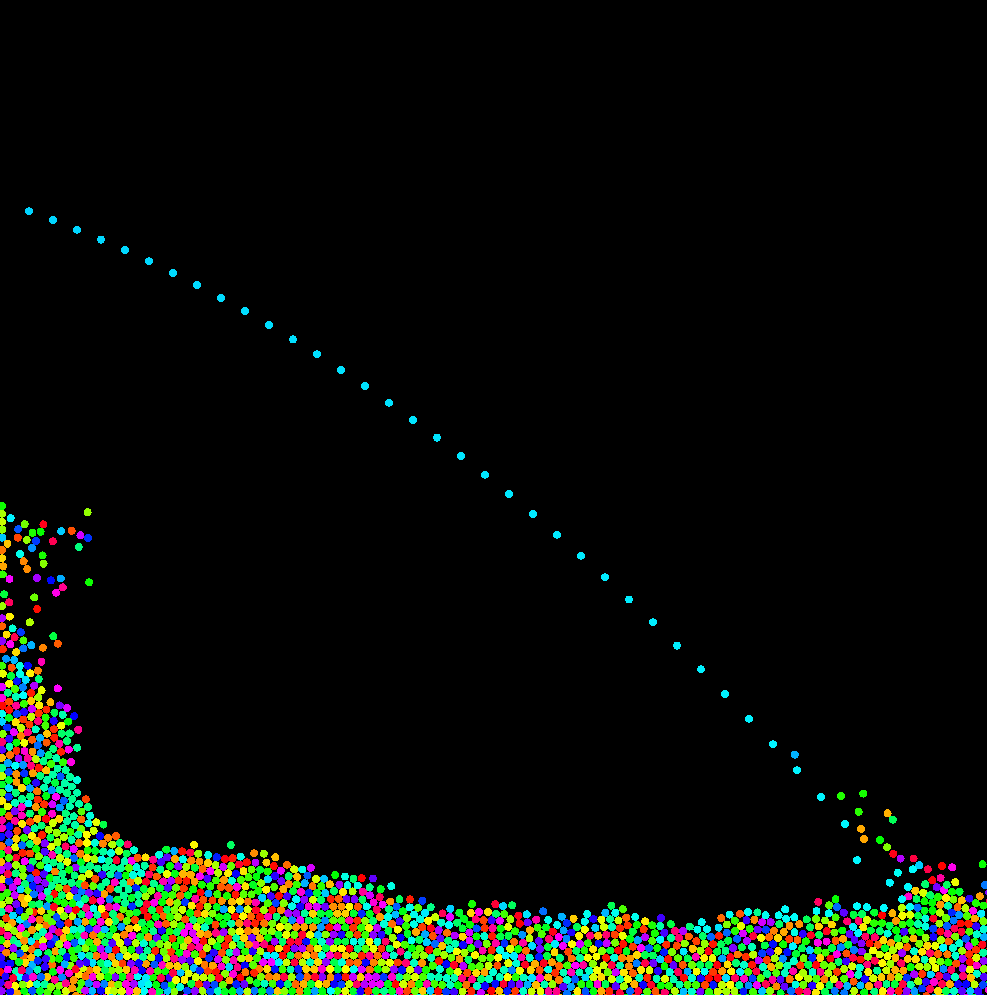
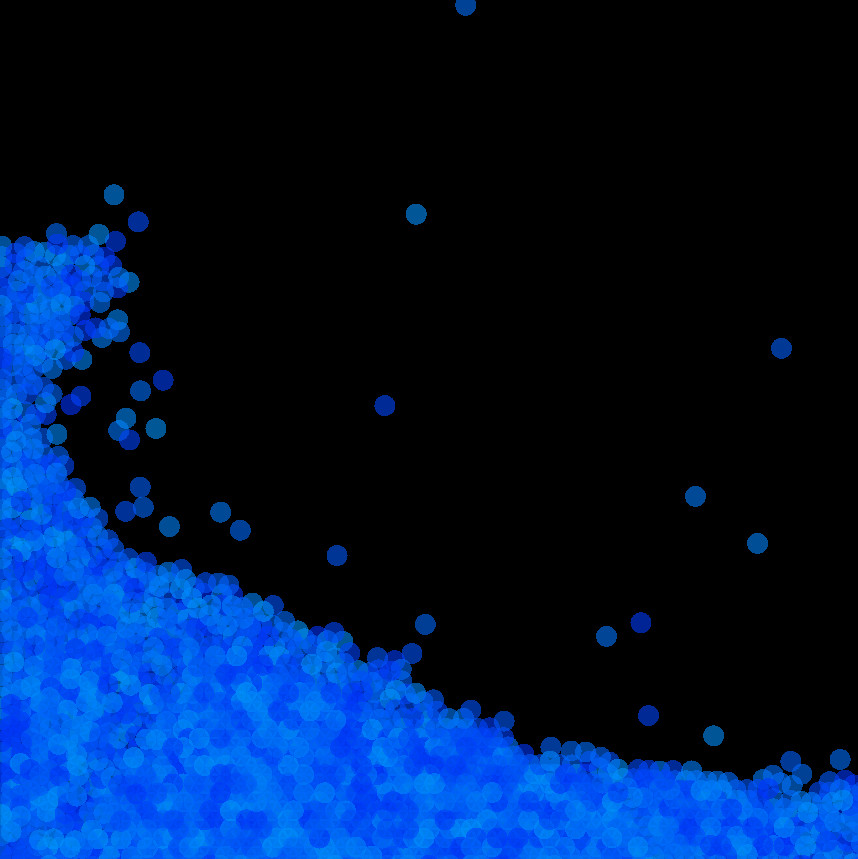
Moving to water-like simulation

diff --git a/main.cpp b/main.cpp
@@ -3,39 +3,39 @@
 #include <cmath>
 #include "src/particle.hpp"
 
-#define DISPLAY 500
-#define N_PARTICLE 5000
-#define FRAME_RATE 60
-#define RADIUS 2
-#define SUBSTEPS 8
-#define N_GRID 35
-#define GRAVITY 1000
-#define CHECK 60
-
 int main() {
 
+    // Constants
+    const float display = 500;
+    const float n_particle = 2000;
+    const float frame_rate = 60;
+    const float radius = 3;
+    const float substeps = 12;
+    const float n_grid = 24;
+    const float gravity = 1000;
+
     // Initialization
-    sf::VideoMode window_scale(DISPLAY, DISPLAY);
+    sf::VideoMode window_scale(display, display);
     sf::RenderWindow window(window_scale, "Verlet Particle Simulation");
     sf::Clock clock;
 
     // Window adjustments
-    unsigned int rescale = DISPLAY * 1.75;
-    window.setFramerateLimit(int(FRAME_RATE));
+    unsigned int rescale = display * 1.75;
+    window.setFramerateLimit(int(frame_rate));
     window.setSize(sf::Vector2(rescale, rescale));
 
     // Dynamic parameters
     float gravity_x = 0.0;
-    float gravity_y = GRAVITY;
-    float dt = 1 / (float(FRAME_RATE) * float(SUBSTEPS));
+    float gravity_y = gravity;
+    float dt = 1 / (frame_rate * substeps);
     int cycles = 0;
 
     // Particle container
     Particles particles = {
-        N_PARTICLE,
-        N_GRID,
-        DISPLAY,
-        RADIUS
+        n_particle,
+        n_grid,
+        display,
+        radius
     };
 
     // Main simulation
@@ -52,23 +52,25 @@ int main() {
         // User adjusted gravity
         if (sf::Keyboard::isKeyPressed(sf::Keyboard::W)) {
             gravity_x = 0;
-            gravity_y = -GRAVITY;
+            gravity_y = -gravity;
         } else if (sf::Keyboard::isKeyPressed(sf::Keyboard::A)) {
-            gravity_x = -GRAVITY;
+            gravity_x = -gravity;
             gravity_y = 0;
         } else if (sf::Keyboard::isKeyPressed(sf::Keyboard::D)) {
-            gravity_x = GRAVITY;
+            gravity_x = gravity;
+            gravity_y = 0;
+        } else if (sf::Keyboard::isKeyPressed(sf::Keyboard::Z)) {
+            gravity_x = 0;
             gravity_y = 0;
         } else {
             gravity_x = 0;
-            gravity_y = GRAVITY;
+            gravity_y = gravity;
         }
-
         // New particle generation
         particles.generate();
 
         // Substep simulation solver
-        for (int i = 0; i < SUBSTEPS; i++) {
+        for (int i = 0; i < substeps; i++) {
             particles.impose_bounds();
             particles.assign_grid();
             particles.collide_grid();
@@ -76,15 +78,16 @@ int main() {
         }
 
         // Prints FPS counter to terminal
-        if (cycles == CHECK) {
-            float fps = float(CHECK) / clock.getElapsedTime().asSeconds();
+        if (cycles > frame_rate) {
+            float fps = frame_rate / clock.getElapsedTime().asSeconds();
             int n = int(particles.x_pos.size());
             printf("FPS: %3.1f Particles: %i\n", fps, n);
             clock.restart();
             cycles = 0;
         }
 
-        cycles += 1;
+        // Render and count
         particles.render(window);
+        cycles += 1;
     }
 }

diff --git a/src/particle.hpp b/src/particle.hpp
@@ -5,9 +5,11 @@
 #include <unordered_map>
 
 struct Color {
-    int r = 255;
-    int b = 000;
-    int g = 000;
+    int r = 000;
+    int b = 255;
+    int g = 050;
+    int a = 150;
+    bool ascending = true;
 };
 
 struct Particles {
@@ -63,28 +65,22 @@ struct Particles {
     void color_gen() {
         // Moves the current color through RGB space
 
-        if (color.r == 255 && color.g <  255 && color.b == 000) {
+        if (color.ascending && color.g < 150) {
             color.g += 1;
         }
 
-        if (color.r >  000 && color.g == 255 && color.b == 000) {
-            color.r -= 1;
-        }
-
-        if (color.r == 000 && color.g == 255 && color.b <  255) {
-            color.b += 1;
-        }
-
-        if (color.r == 000 && color.g >  000 && color.b == 255) {
+        if (color.ascending && color.g == 150) {
+            color.ascending = false;
             color.g -= 1;
         }
 
-        if (color.r <  255 && color.g == 000 && color.b == 255) {
-            color.r += 1;
+        if (!color.ascending && color.g > 50) {
+            color.g -= 1;
         }
 
-        if (color.r == 255 && color.g == 000 && color.b >  000) {
-            color.b -= 1;
+        if (!color.ascending && color.g == 50) {
+            color.ascending = true;
+            color.g += 1;
         }
     }
 
@@ -208,14 +204,22 @@ struct Particles {
         // Rendering utility to display particles in color
 
         window.clear();
-        sf::CircleShape circle(radius);
+        sf::CircleShape circle(radius * 2);
         circle.setPointCount(32);
 
         for (int i = 0; i < x_pos.size(); i++) {
+
             float x = x_pos[i];
             float y = y_pos[i];
             circle.setPosition(x, y);
-            sf::Color particle_color(colors[i].r, colors[i].g, colors[i].b, 255);
+
+            sf::Color particle_color(
+                colors[i].r,
+                colors[i].g,
+                colors[i].b,
+                colors[i].a
+            );
+
             circle.setFillColor(particle_color);
             window.draw(circle);
         }
